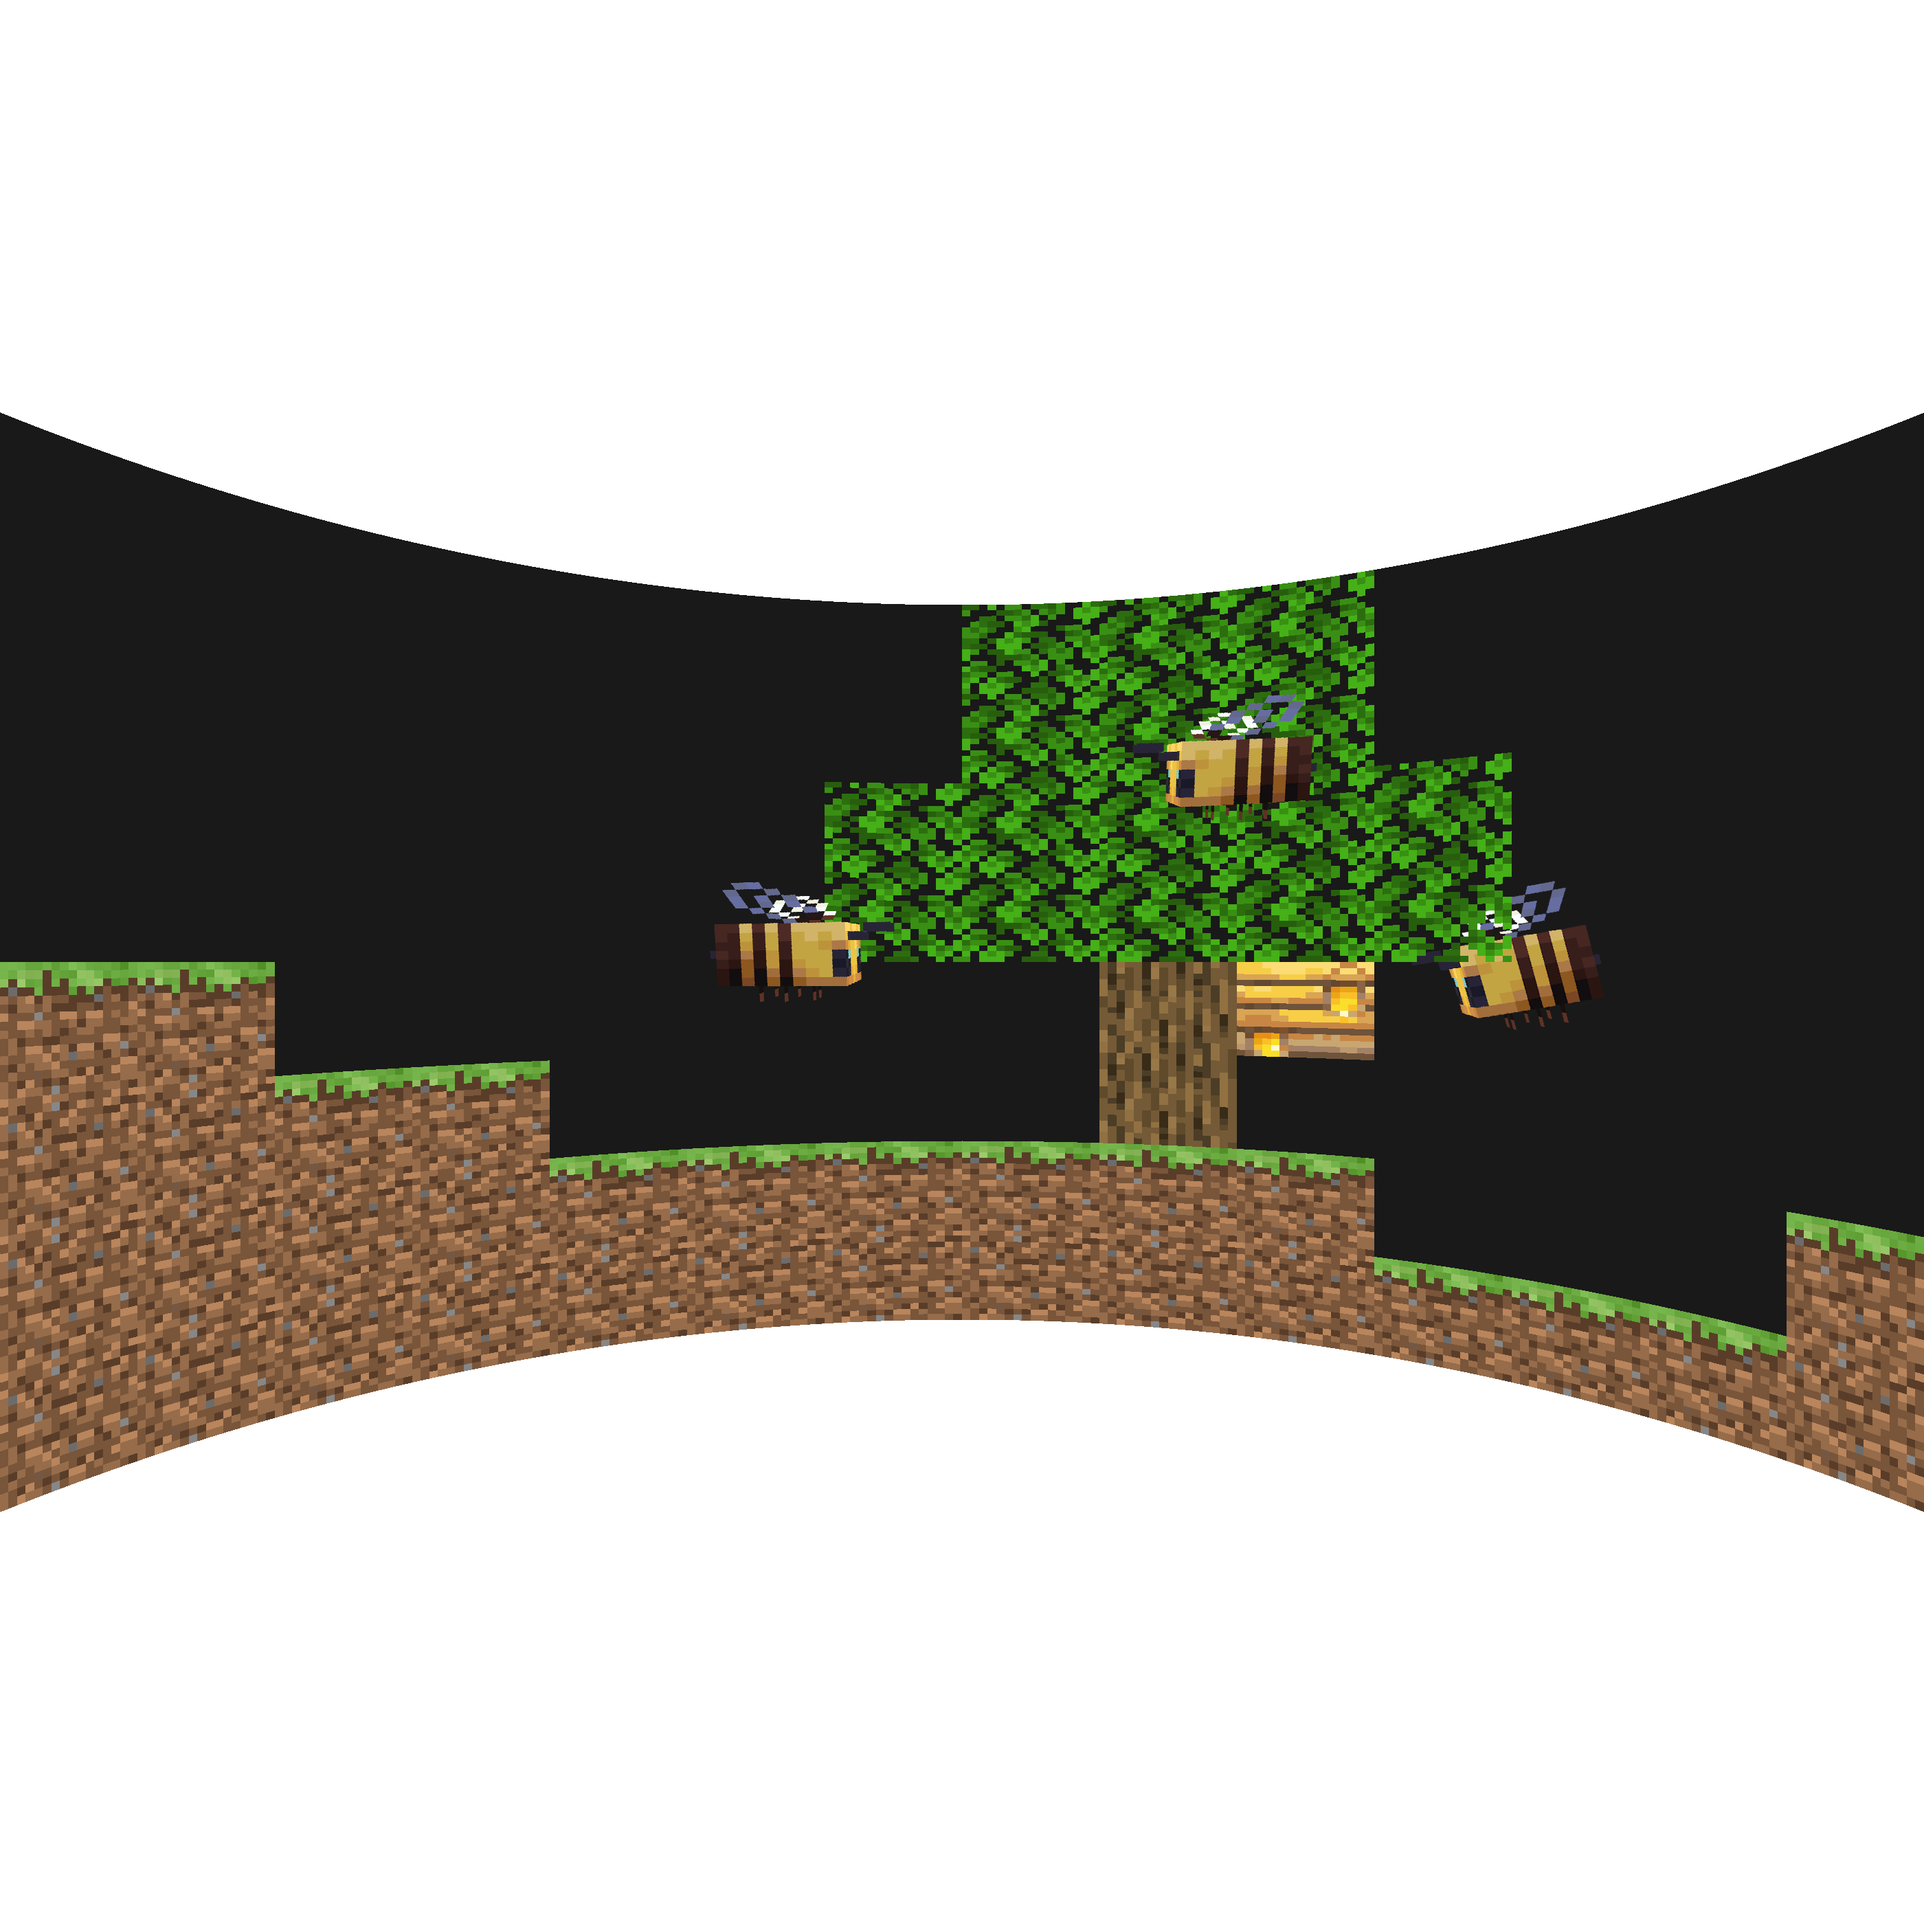
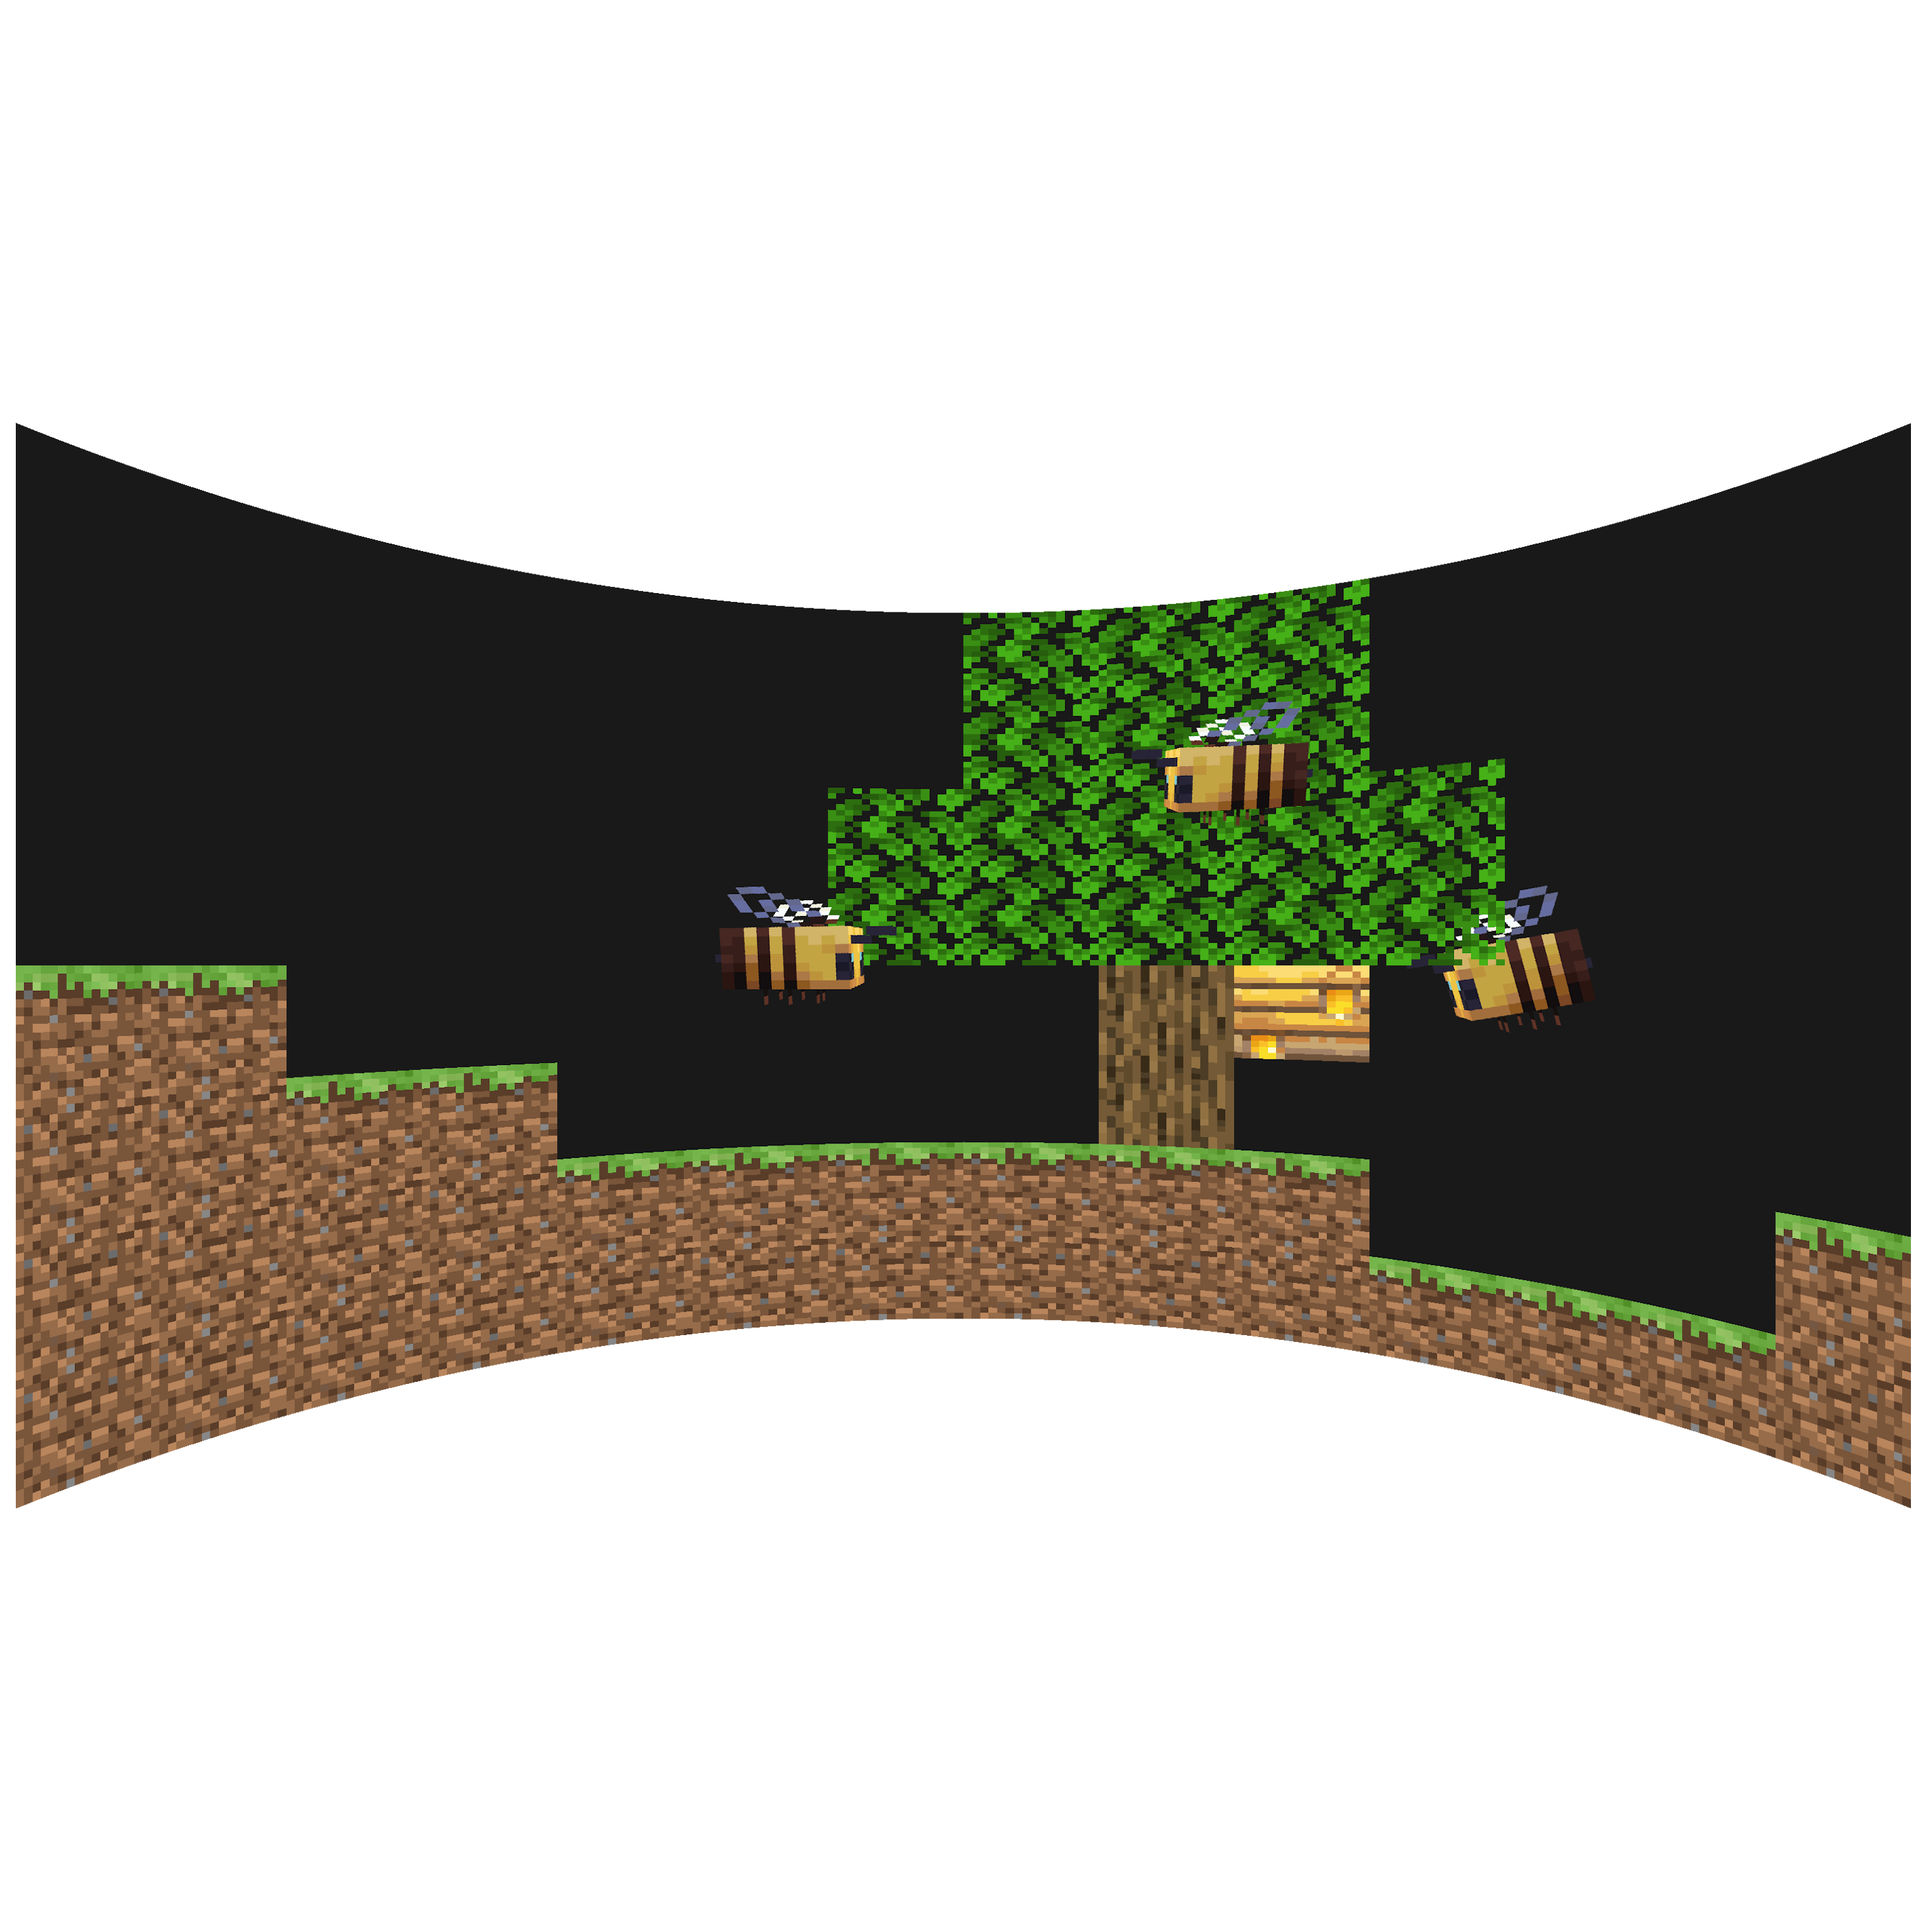
high quality screenshots

diff --git a/src/client/java/air/skyboxify/client/Screenshotter.java b/src/client/java/air/skyboxify/client/Screenshotter.java
@@ -2,10 +2,14 @@ package air.skyboxify.client;
 
 import air.skyboxify.Config;
 import net.minecraft.client.MinecraftClient;
+import net.minecraft.client.gl.Framebuffer;
+import net.minecraft.client.render.RenderTickCounter;
 import net.minecraft.client.util.ScreenshotRecorder;
+import net.minecraft.client.util.Window;
 import net.minecraft.text.ClickEvent;
 import net.minecraft.text.Text;
 import net.minecraft.util.Formatting;
+import org.jetbrains.annotations.Nullable;
 
 import java.io.File;
 import java.io.IOException;
@@ -40,20 +44,49 @@ public class Screenshotter {
         client.player.setYaw(yaw);
 
         Text link = Text.literal(name).formatted(Formatting.UNDERLINE).styled(s -> s.withClickEvent(new ClickEvent.OpenFile(folder.getAbsolutePath())));
-        client.player.sendMessage(Text.translatable("screenshot.success",link),false);
+        client.player.sendMessage(Text.literal("[Skyboxer] ").withColor(0x9ac2e7)
+                .append(Text.translatable("screenshot.success",link).withColor(0xFFFFFF)),false);
     }
 
     public static void shoot() {
         MinecraftClient client = MinecraftClient.getInstance();
+        if (client.player == null) return;
 
-        ScreenshotRecorder.takeScreenshot(client.getFramebuffer(), image -> {
-            try (image) {
-                image.writeTo(new File("screenshot.png"));
-            } catch (IOException e) {
-                e.printStackTrace();
-                return;
-            }
-        });
-        if (client.player != null) client.player.sendMessage(Text.literal("Screenshot saved!"),false);
+        File dir = Config.savePath.isBlank() ? client.runDirectory : new File(Config.savePath);
+        String name = getTimeName() + ".png";
+        new File(dir,"screenshots").mkdirs();
+
+        Window window = client.getWindow();
+        Framebuffer framebuffer = client.getFramebuffer();
+        int oW = window.getFramebufferWidth();
+        int oH = window.getFramebufferHeight();
+
+        int w = Config.quality;
+        int h = Math.round(w * (float) oH / oW);
+        int ss = supersample(Math.max(w,h));
+
+        try {
+            window.setFramebufferWidth(w*ss);
+            window.setFramebufferHeight(h*ss);
+            framebuffer.resize(w*ss,h*ss);
+            client.gameRenderer.renderWorld(RenderTickCounter.ONE);
+            ScreenshotRecorder.saveScreenshot(dir, name, framebuffer, ss, msg -> {});
+        } finally {
+            window.setFramebufferWidth(oW);
+            window.setFramebufferHeight(oH);
+            framebuffer.resize(oW,oH);
+        }
+
+        Text link = Text.literal(name).formatted(Formatting.UNDERLINE).styled(s -> s.withClickEvent(new ClickEvent.OpenFile(new File(dir,"screenshots/" + name))));
+        client.player.sendMessage(Text.literal("[Skyboxer] ").withColor(0x9ac2e7)
+                .append(Text.translatable("screenshot.success",link).withColor(0xFFFFFF)),false);
+    }
+
+    public static int supersample(Integer size) {
+        return size != null ? Math.max(1, Math.min(4, 8192 / Config.quality)) : Config.quality;
+    }
+
+    public static int renderSize() {
+        return Config.quality * supersample(null);
     }
 }

diff --git a/src/client/java/air/skyboxify/client/mixin/MinecraftClientMixin.java b/src/client/java/air/skyboxify/client/mixin/MinecraftClientMixin.java
@@ -3,13 +3,29 @@ package air.skyboxify.client.mixin;
 import air.skyboxify.client.Screenshotter;
 import net.minecraft.client.MinecraftClient;
 import org.spongepowered.asm.mixin.Mixin;
+import org.spongepowered.asm.mixin.Unique;
 import org.spongepowered.asm.mixin.injection.At;
+import org.spongepowered.asm.mixin.injection.Constant;
 import org.spongepowered.asm.mixin.injection.ModifyArg;
+import org.spongepowered.asm.mixin.injection.ModifyConstant;
 
 @Mixin(MinecraftClient.class)
 public class MinecraftClientMixin {
-    @ModifyArg(method = "takePanorama", at = @At(value = "INVOKE", target = "Lnet/minecraft/client/util/ScreenshotRecorder;saveScreenshot(Ljava/io/File;Ljava/lang/String;Lnet/minecraft/client/gl/Framebuffer;ILjava/util/function/Consumer;)V"),index = 1)
+    @Unique
+    private static final String SAVE = "Lnet/minecraft/client/util/ScreenshotRecorder;saveScreenshot(Ljava/io/File;Ljava/lang/String;Lnet/minecraft/client/gl/Framebuffer;ILjava/util/function/Consumer;)V";
+
+    @ModifyArg(method = "takePanorama", at = @At(value = "INVOKE", target = SAVE), index = 1)
     private String air$panoramaFolder(String fileName) {
         return Screenshotter.panoramaFolder == null ? fileName : Screenshotter.panoramaFolder + "/" + fileName;
+    }
+
+    @ModifyArg(method = "takePanorama", at = @At(value = "INVOKE", target = SAVE), index = 3)
+    private int air$panoramaDownscale(int original) {
+        return Screenshotter.panoramaFolder == null ? original : Screenshotter.supersample(null);
+    }
+
+    @ModifyConstant(method = "takePanorama", constant = @Constant(intValue = 4096))
+    private int air$panoramaSize(int original) {
+        return Screenshotter.panoramaFolder == null ? original : Screenshotter.renderSize();
     }
 }

diff --git a/src/client/java/air/skyboxify/client/ModMenuConfig.java b/src/client/java/air/skyboxify/client/ModMenuConfig.java
@@ -22,7 +22,7 @@ public class ModMenuConfig implements ModMenuApi {
         ConfigEntryBuilder entryBuilder = builder.entryBuilder();
 
         general.addEntry(
-                entryBuilder.startIntSlider(Text.literal("Quality"), quality, 360, 3000)
+                entryBuilder.startIntField(Text.literal("Quality"), quality)
                         .setDefaultValue(1080)
                         .setSaveConsumer(value -> quality = value)
                         .build()
